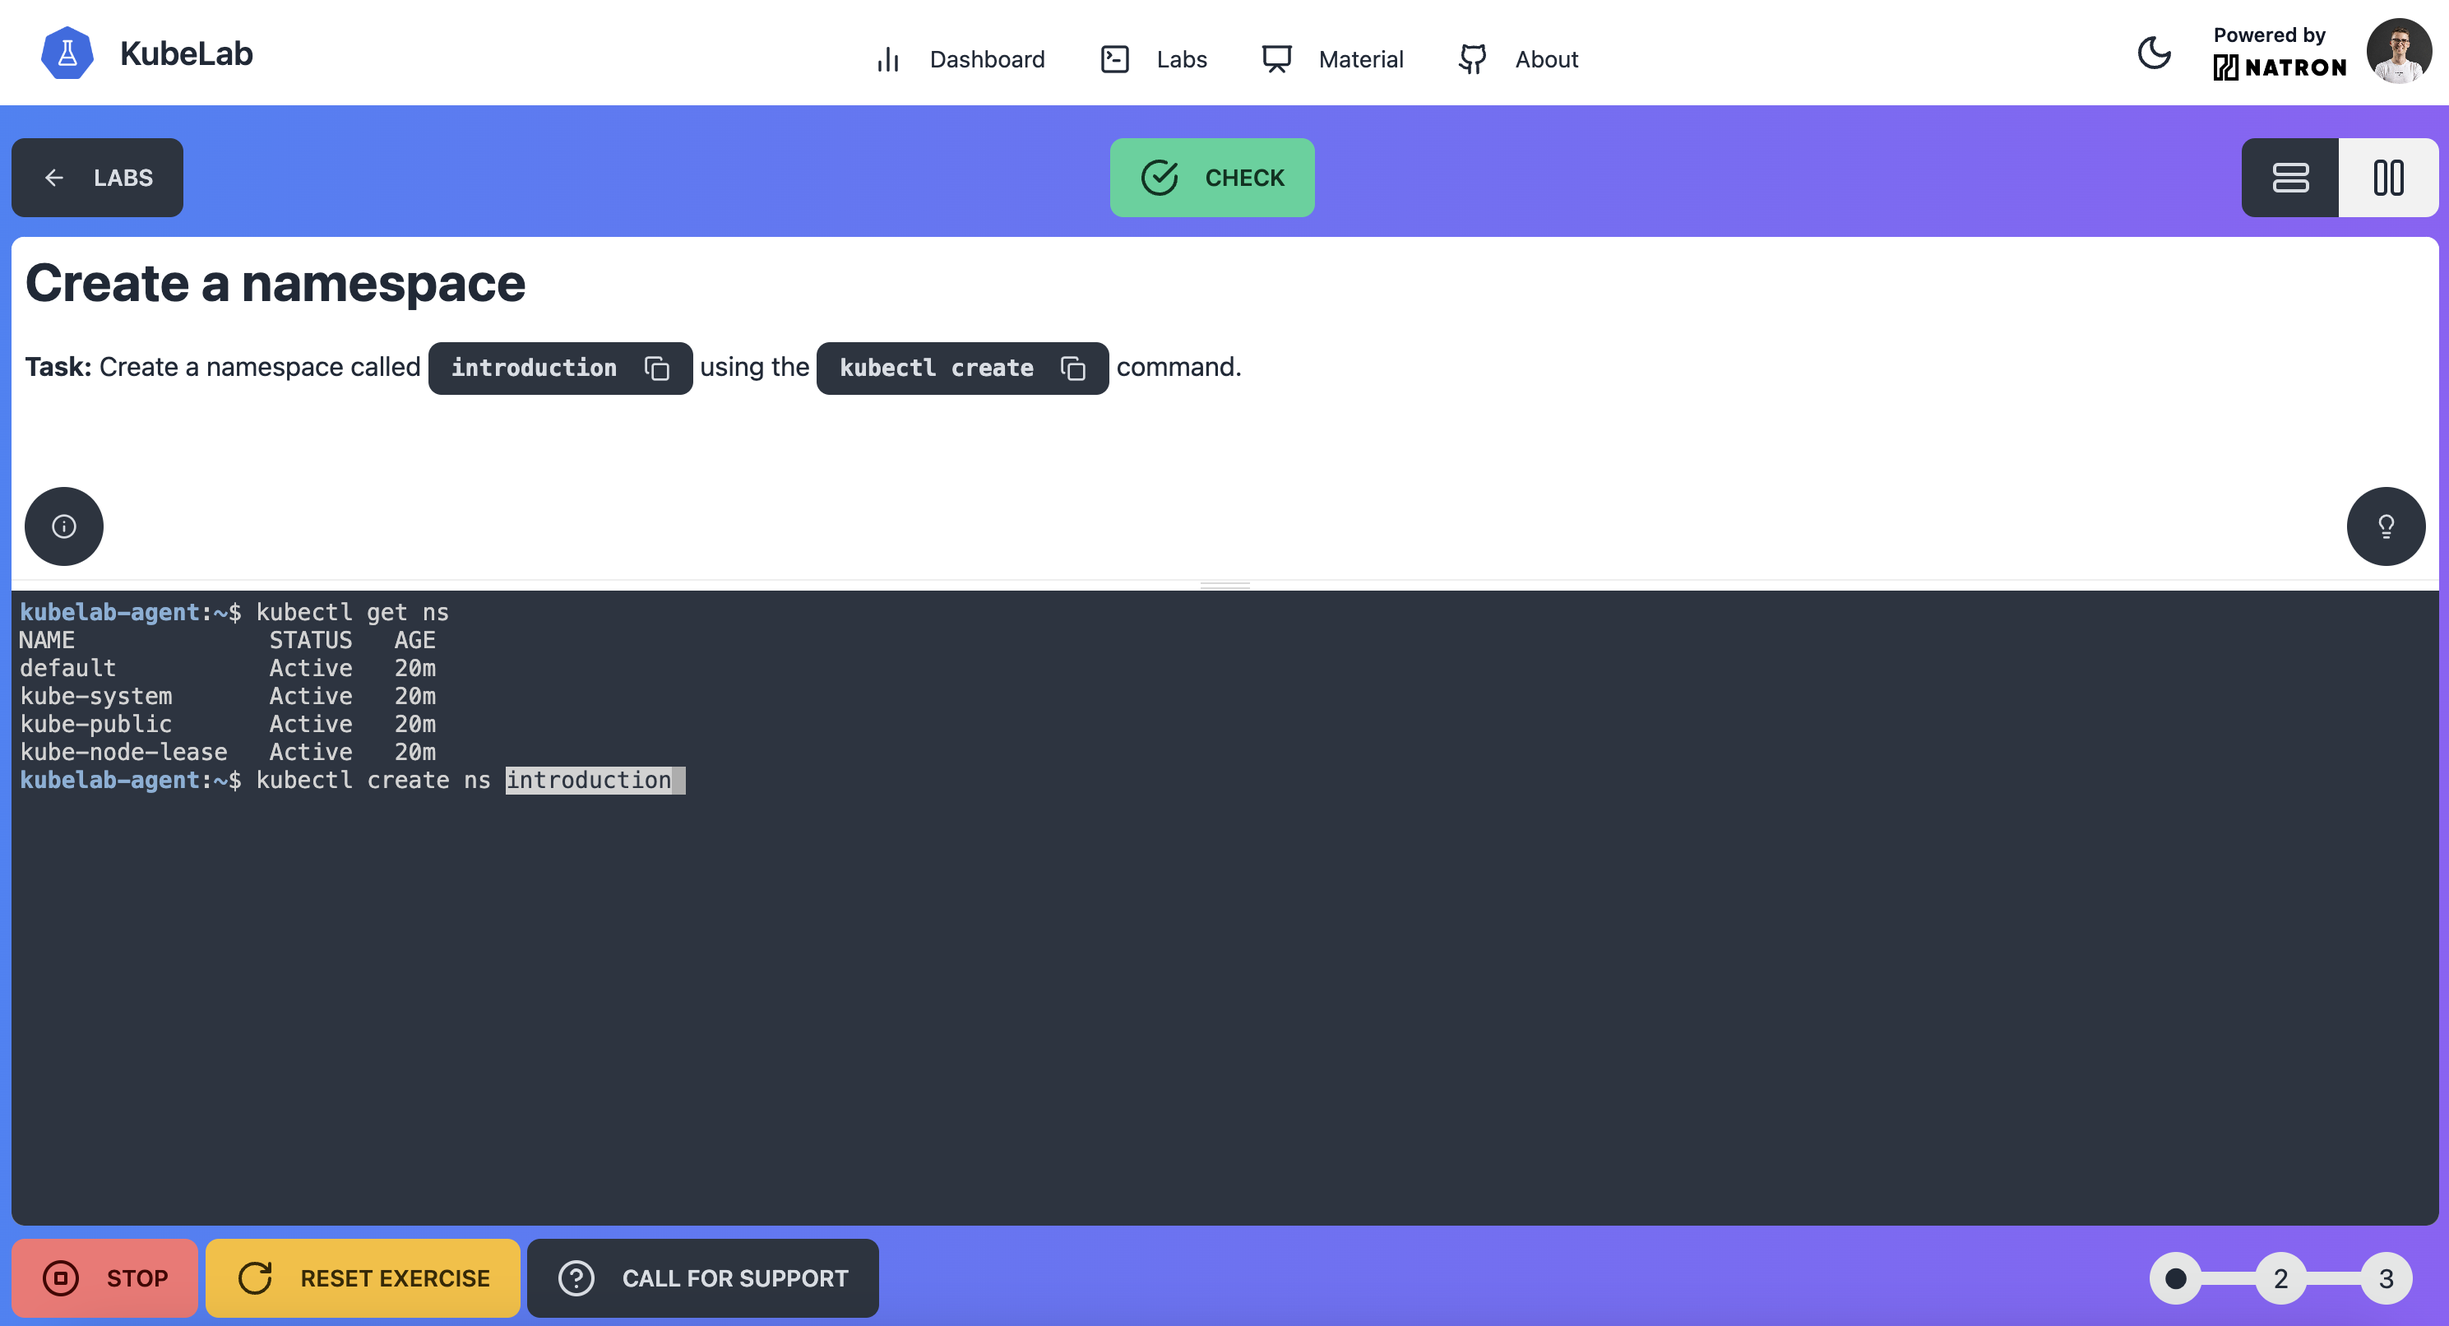
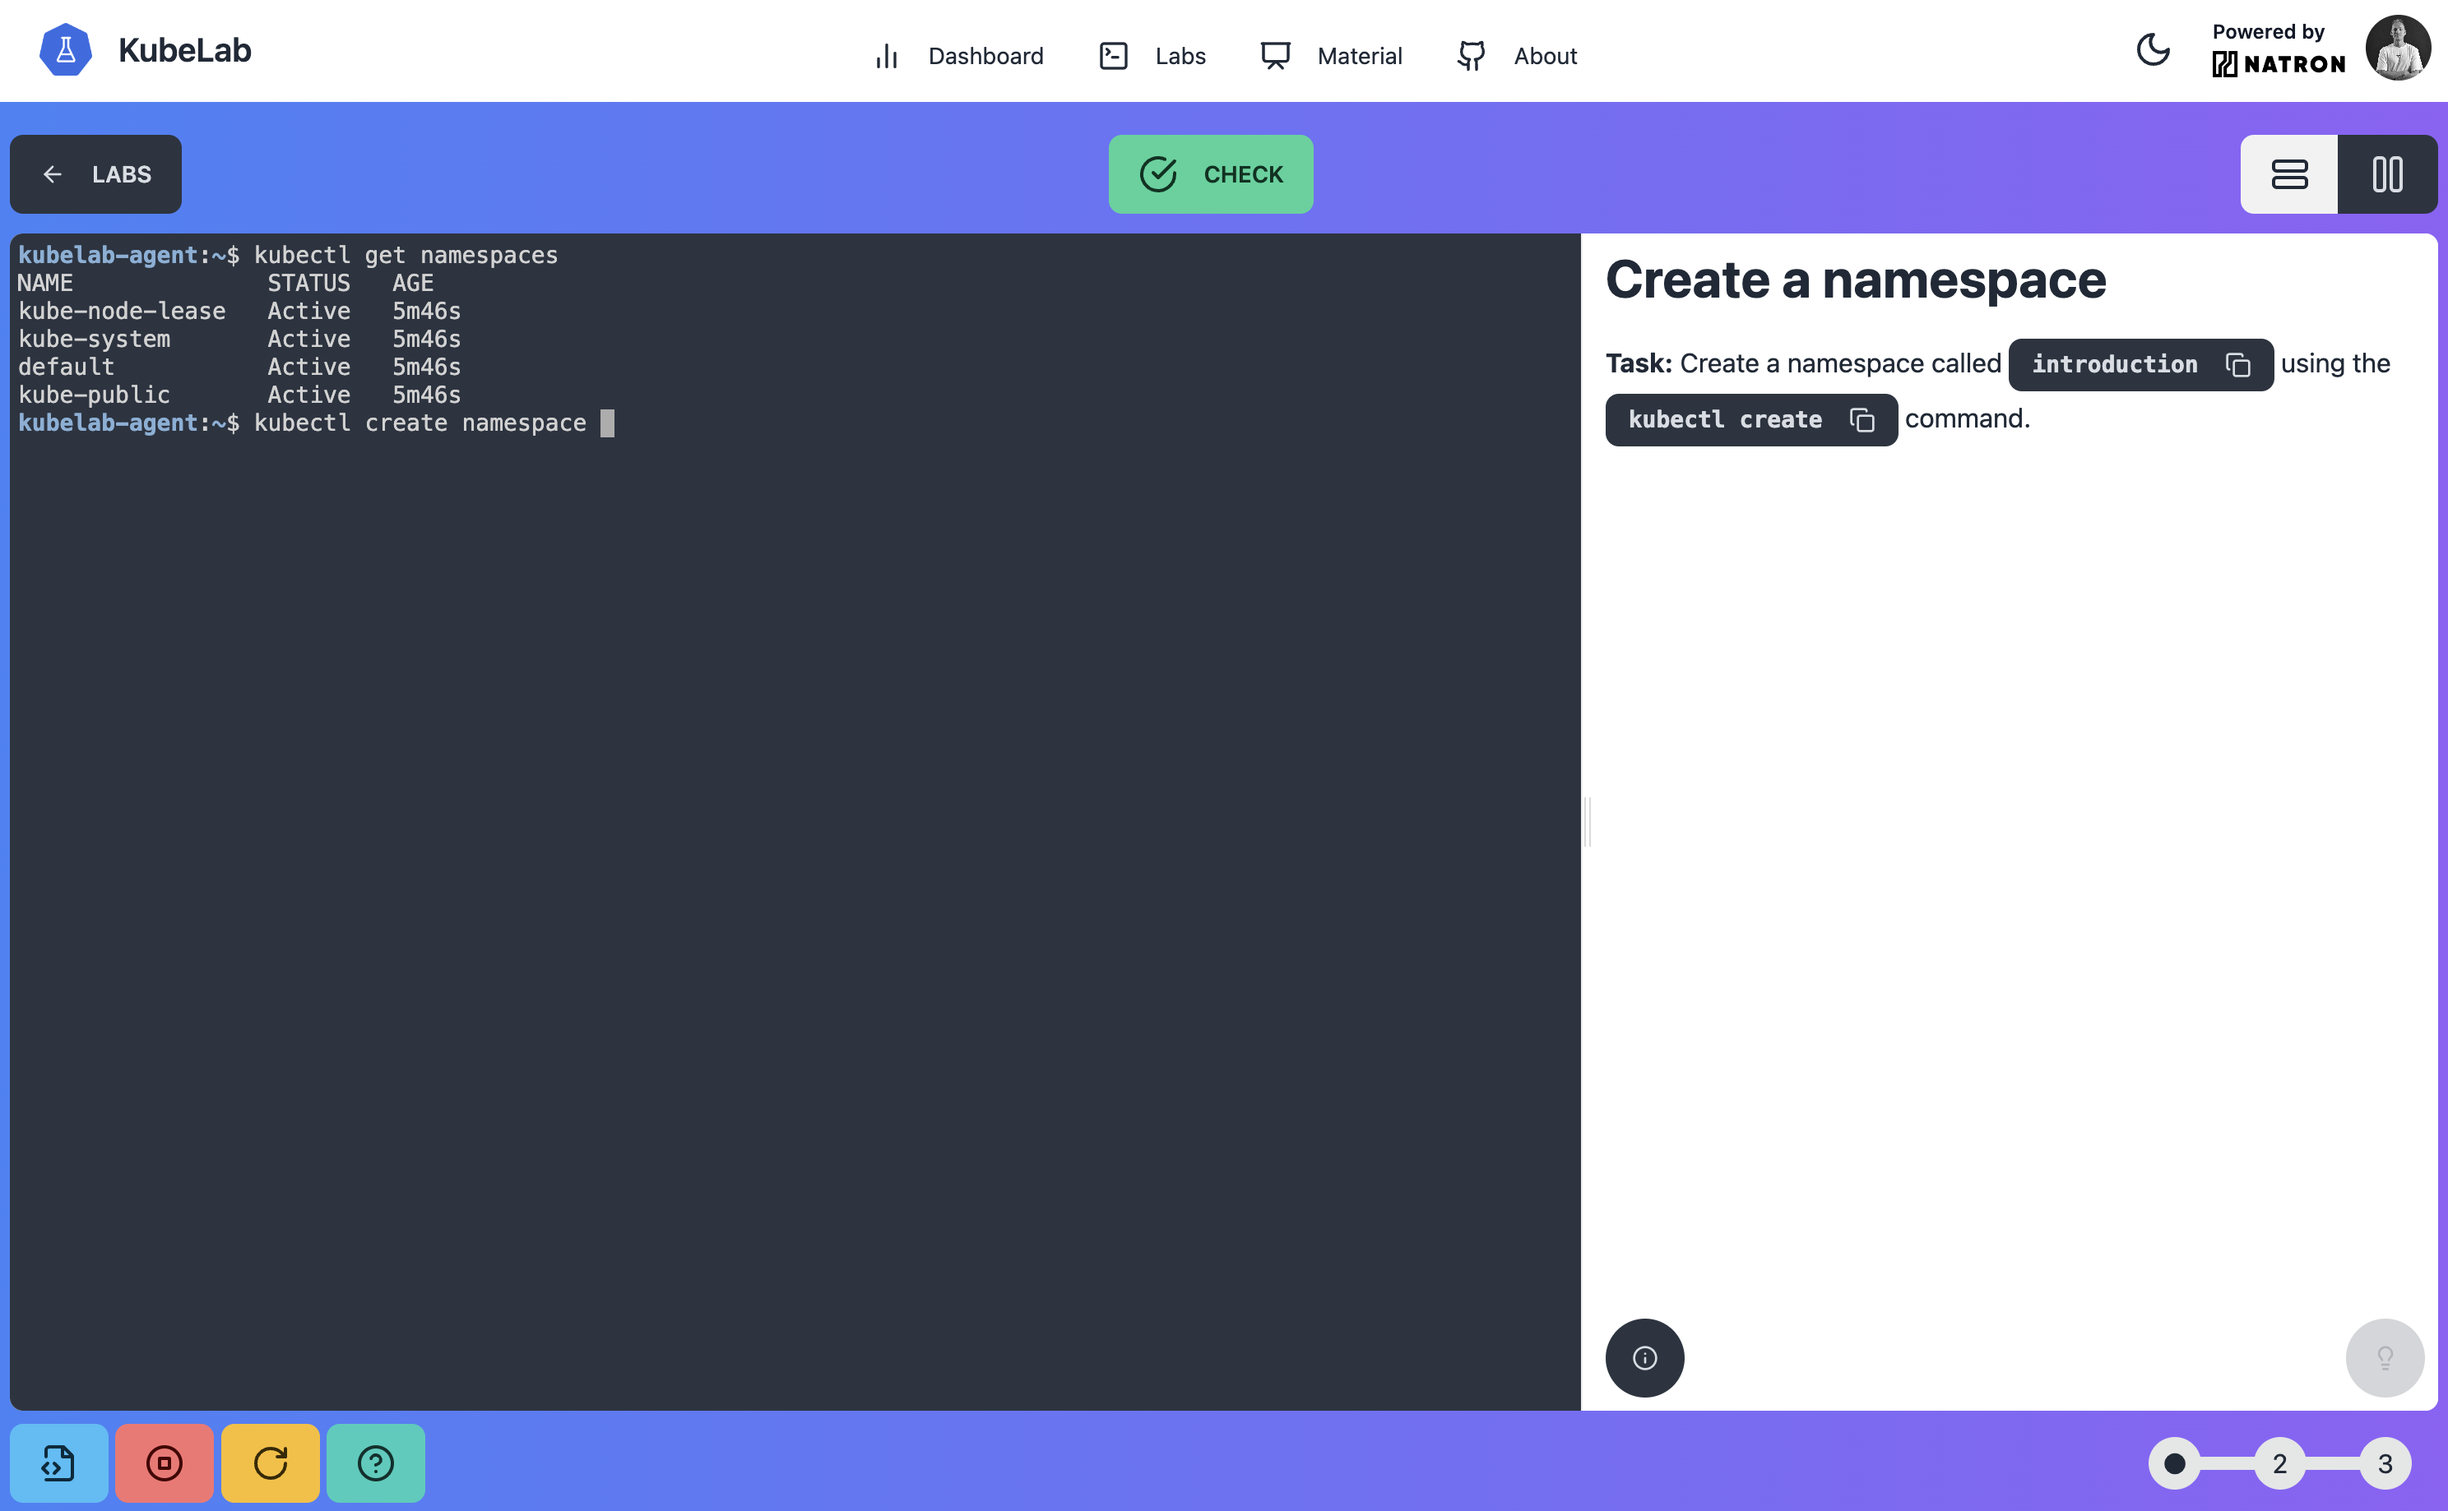
feat: change screenshots and add tooltips

diff --git a/kubelab-ui/src/routes/labs/[id]/[id]/+layout.svelte b/kubelab-ui/src/routes/labs/[id]/[id]/+layout.svelte
@@ -39,6 +39,7 @@
     type NotificationsRecord,
     NotificationsTypeOptions
   } from "$lib/pocketbase/generated-types.js";
+    import { Tooltip } from "flowbite-svelte";
 
   $metadata.title = "Exercises";
 
@@ -359,30 +360,32 @@
     <div class="mt-2 flex justify-between px-2">
       <div>
         {#if $exercise_session.agentRunning}
-          <button class="btn" on:click={() => handleOpenVSCode()}>
+          <button class="btn btn-info" on:click={() => handleOpenVSCode()}>
             <FileCode2 class="inline-block" />
-            Code Editor
           </button>
+          <Tooltip>Open Code Editor</Tooltip>
 
           <button class="btn btn-error" on:click={() => handleStopExercise()}>
             <StopCircle class="inline-block" />
           </button>
+          <Tooltip>Stop Exercise</Tooltip>
 
           <button class="btn btn-warning" on:click={() => handleRestartExercise()}>
             <RotateCw class="inline-block {restartLoading ? 'animate-spin' : ''}" />
           </button>
+          <Tooltip>Reset Exercise</Tooltip>
           {#if client.authStore.model?.workshop == true}
             <button
-              class="btn btn-neutral dark:hover:text-base-200 {helpRequested
+              class="btn btn-accent dark:text-black {helpRequested
                 ? 'btn-disabled'
-                : 'btn-primary'}"
+                : 'btn-accent'}"
               on:click={() => {
                 askForHelp();
               }}
             >
-              <HelpCircle class="inline-block mr-2" />
-              Call for Support
+              <HelpCircle class="inline-block" />
             </button>
+            <Tooltip>Call for Help</Tooltip>
           {/if}
         {/if}
       </div>
